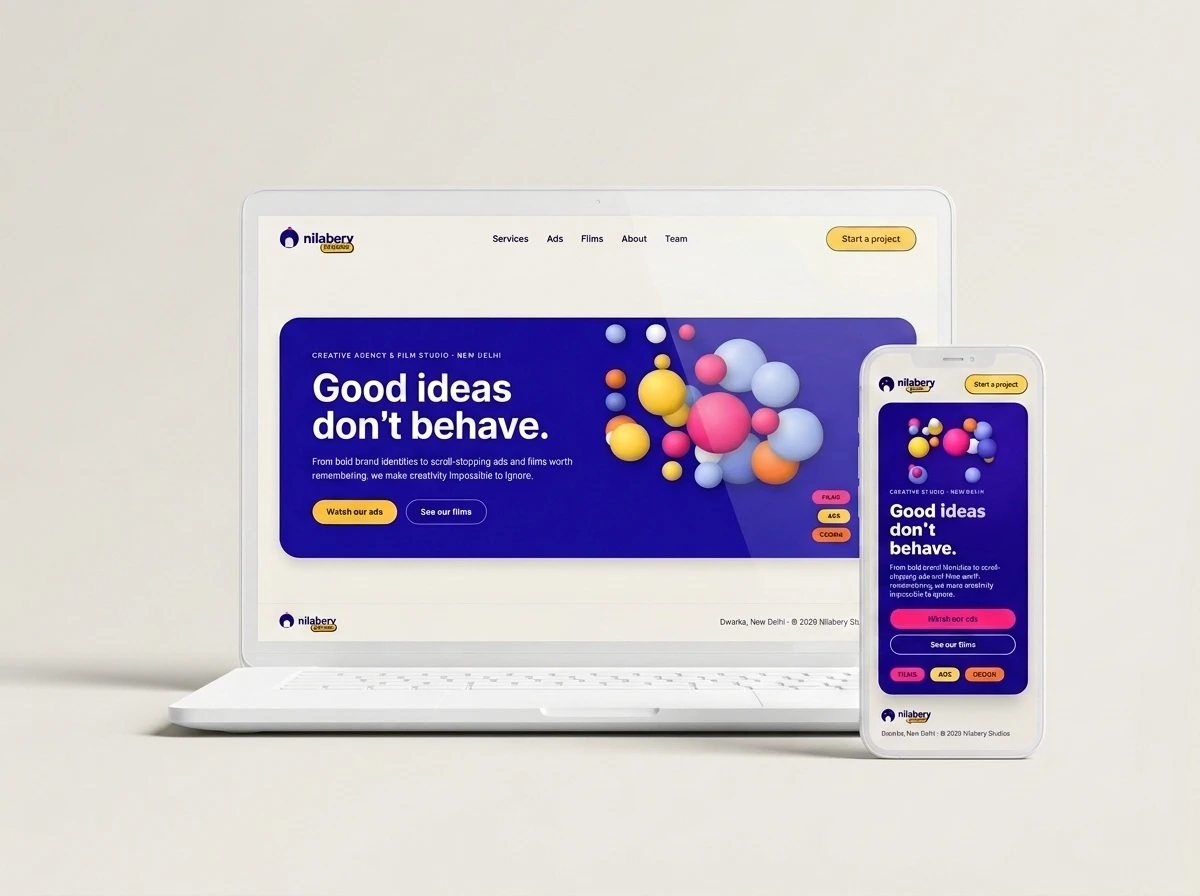
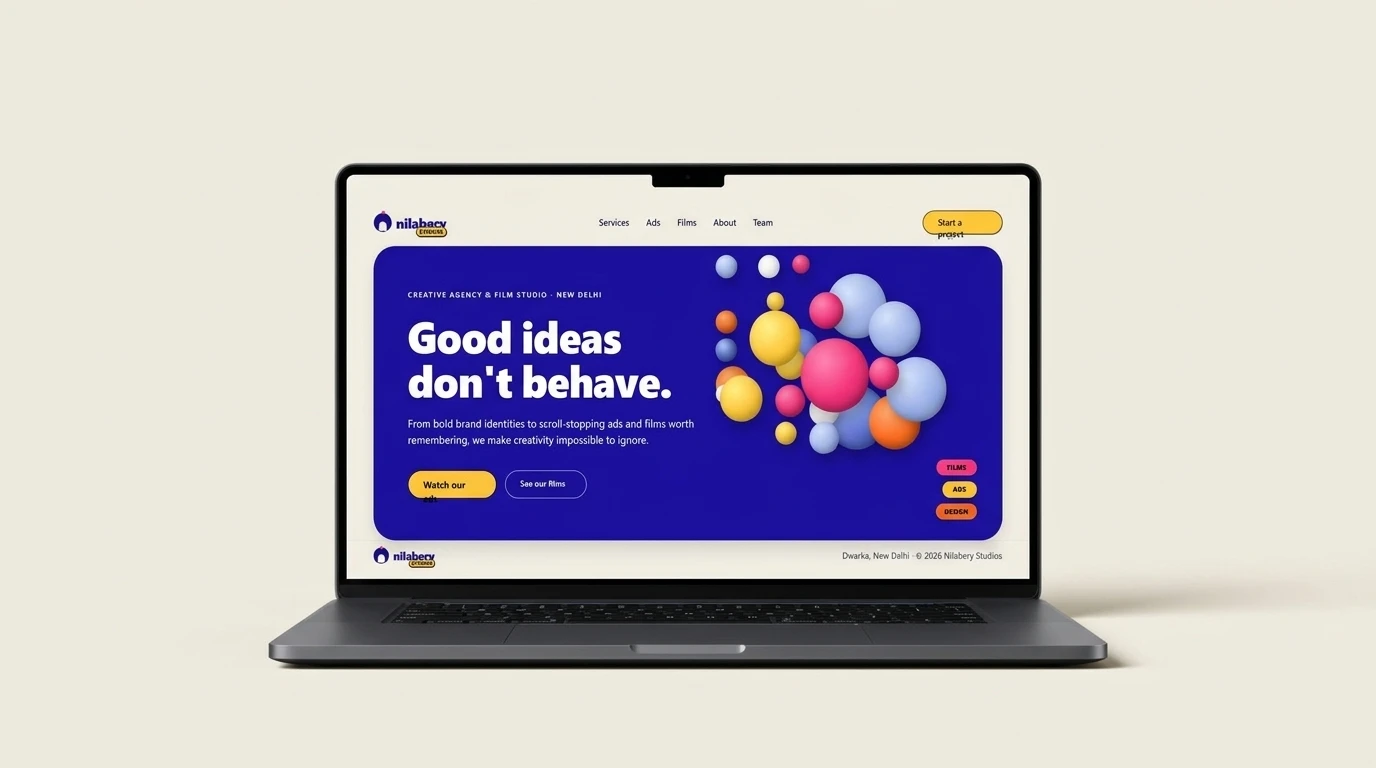
home: swap Nilaberry card image for the laptop mockup, zoomed in
Claude-Session: https://claude.ai/code/session_01CWBhB2afCXg1xY56Z8eLAr

Changed region(s): [[0.0, 0.1875, 0.925, 0.875]]

diff --git a/index.html b/index.html
@@ -119,7 +119,7 @@
             </span>
           </div>
           <div class="work-image">
-            <img src="assets/work-nilaberry.webp" alt="The Nilaberry Studios website on a laptop and a phone" loading="lazy" onerror="this.remove()" />
+            <img class="work-image-zoom" src="assets/work-nilaberry.webp" alt="The Nilaberry Studios website on a laptop" loading="lazy" onerror="this.remove()" />
             <div class="pills">
               <span class="pill">Interaction Design</span>
               <span class="pill">AI Workflow</span>

diff --git a/styles.css b/styles.css
@@ -326,6 +326,11 @@ svg {
   object-fit: cover;
 }
 
+.work-image img.work-image-zoom {
+  transform: scale(1.4);
+  transform-origin: 50% 55%;
+}
+
 .pills {
   position: absolute;
   left: calc(13 * var(--u));
